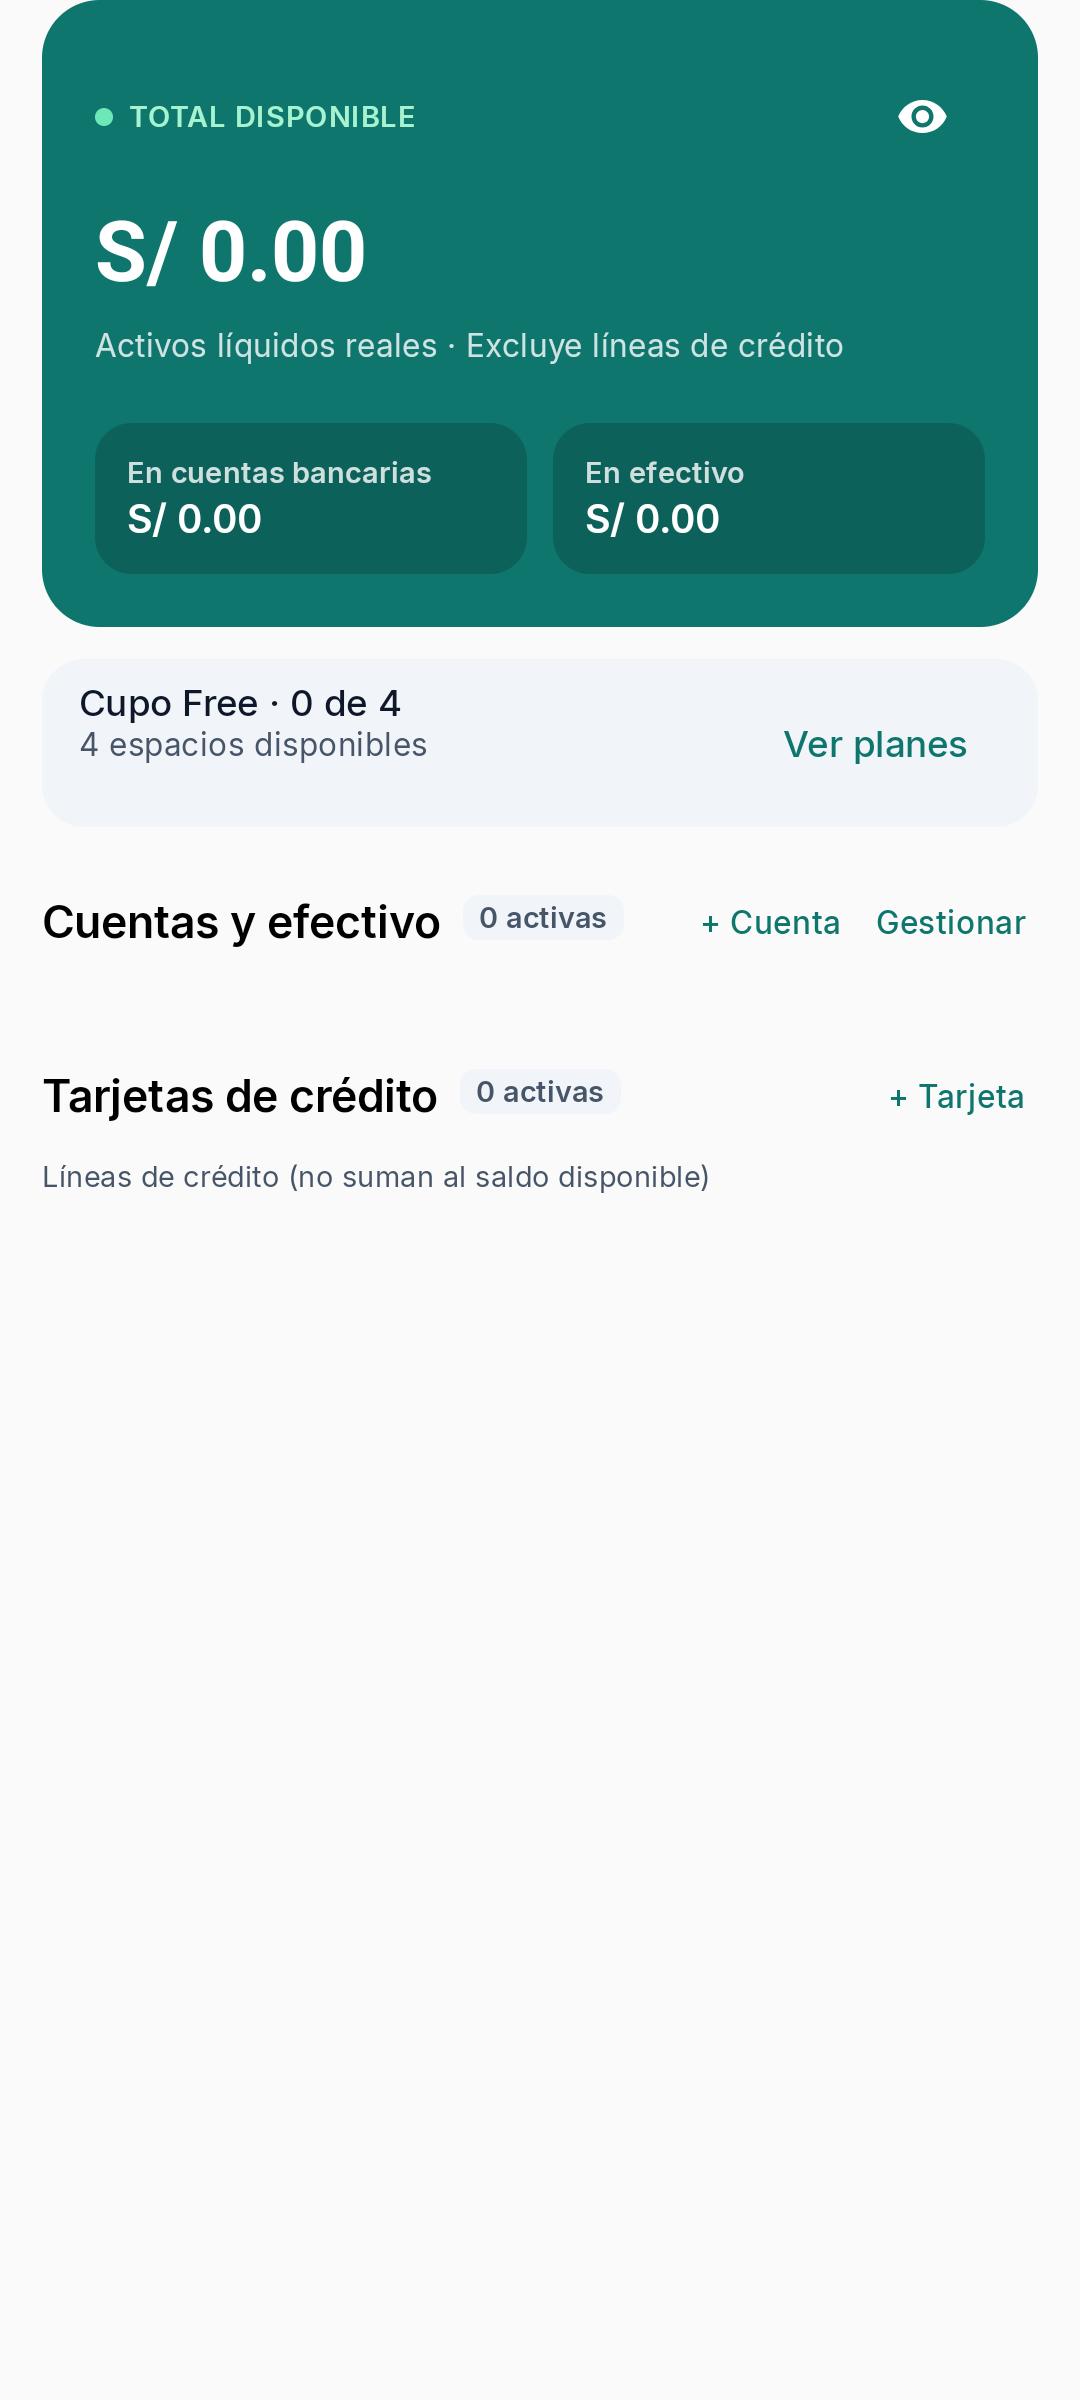
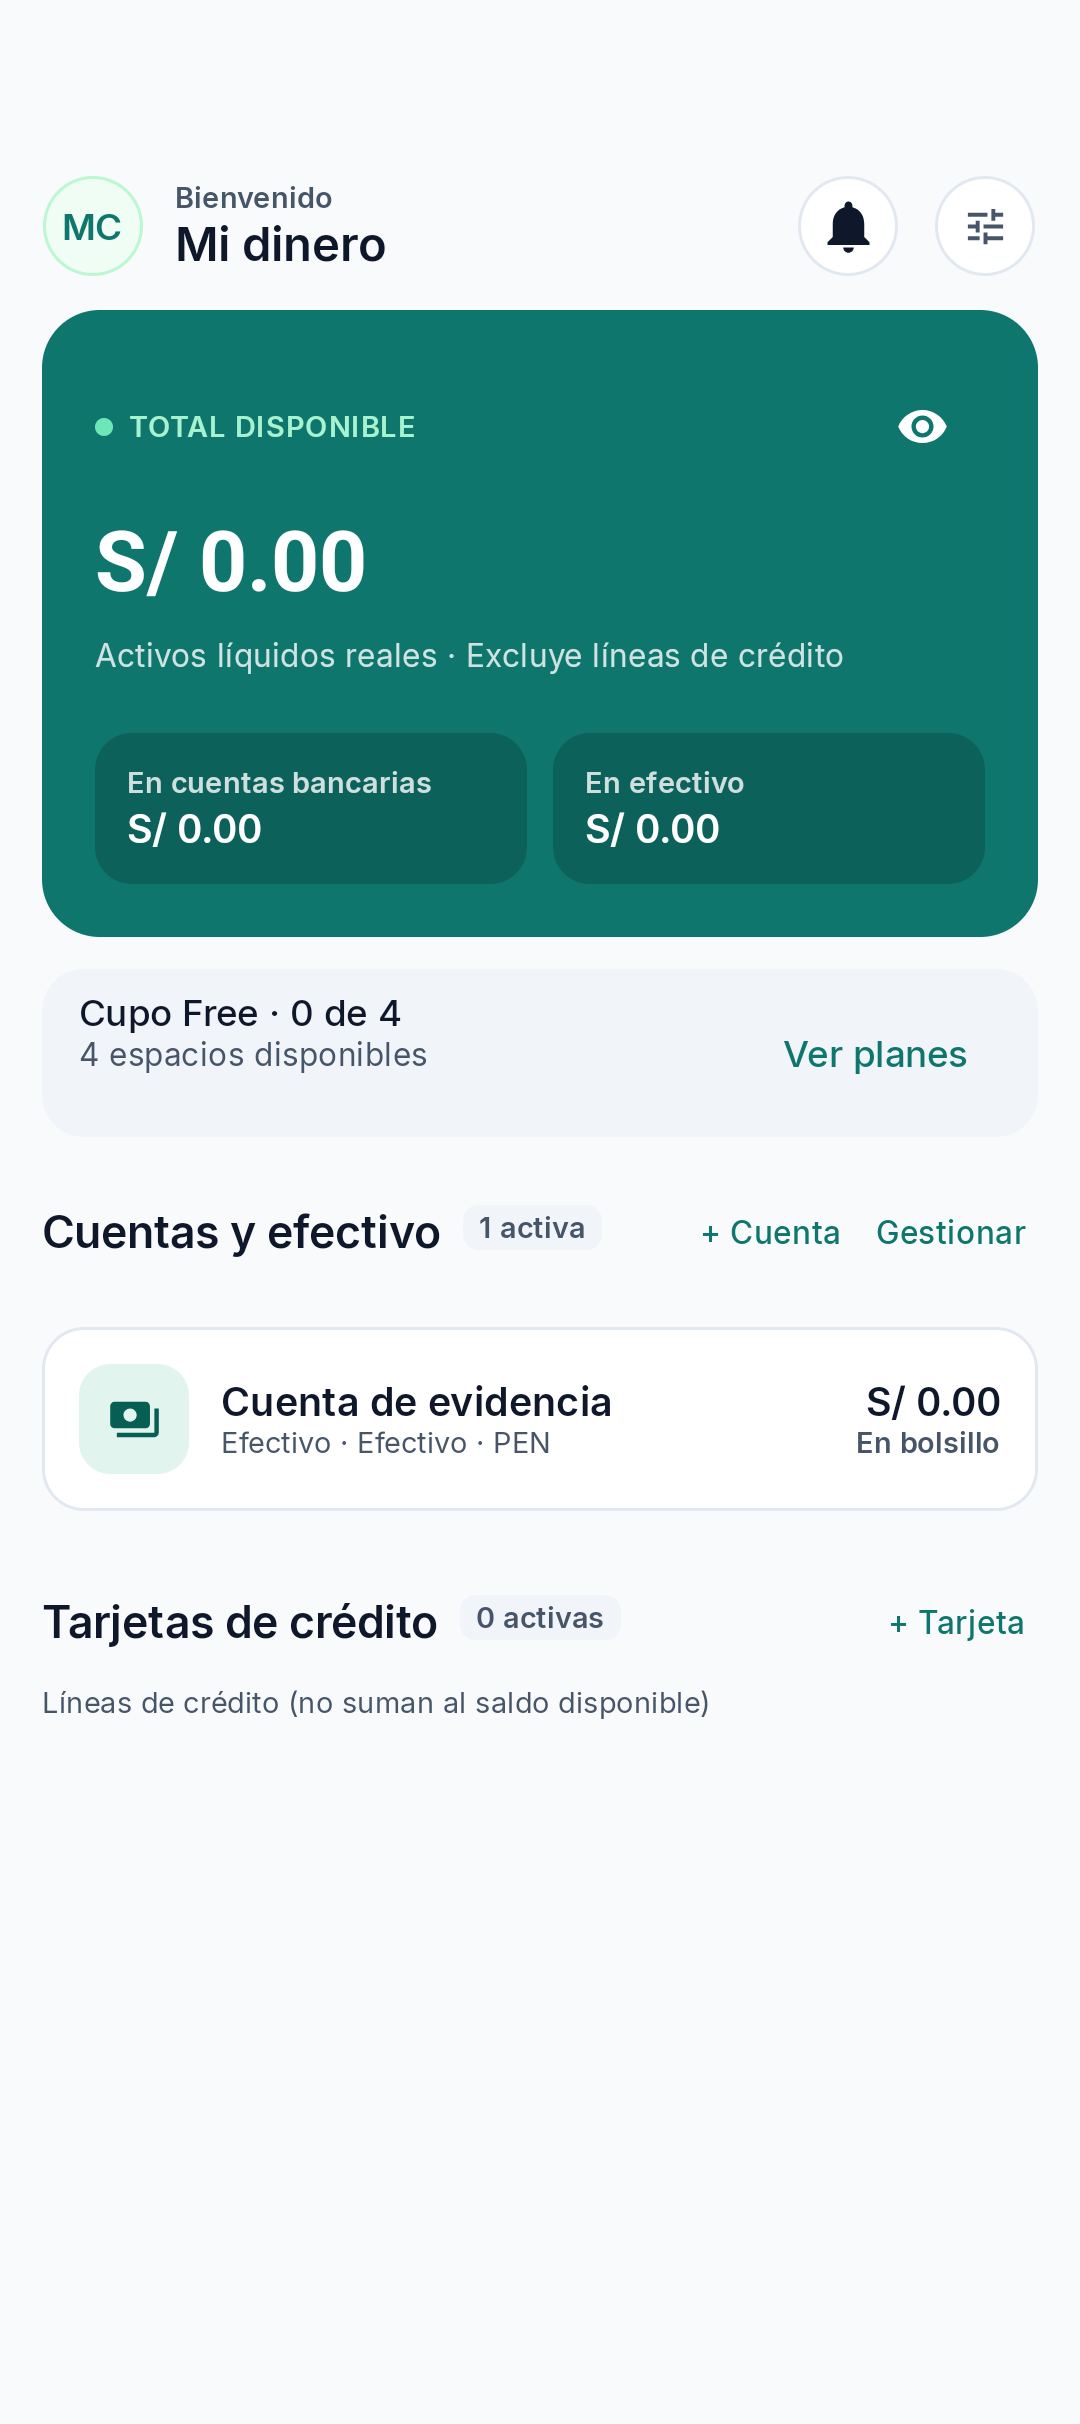
docs(dashboard): replace issue 47 screenshot evidence

diff --git a/docs/ux-ui/evidence/issue-47/README.md b/docs/ux-ui/evidence/issue-47/README.md
@@ -1,18 +1,25 @@
-# Issue #47 — Dashboard financial banner
+# Issue #47 — Banner financiero del Dashboard
 
-## Harness actualizado para las capturas después
+## Evidencia comparable
 
-`DashboardFinancialMessagingTest` monta la pantalla de producción `DashboardScreen` dentro de `KipuTheme`, con una cuenta de efectivo sintética de saldo cero, sin tarjetas y sin deuda. La cuenta mantiene activa la ruta de contenido del Dashboard. El modificador de prueba identifica la raíz de pantalla completa; el harness desplaza el contenido hasta el mismo marcador inferior y captura esa raíz, que incluye el `Scaffold` y su superficie opaca `emeraldColors.background`.
+Las capturas muestran la pantalla productiva completa `DashboardScreen` antes y después de retirar el banner de salud financiera, con el mismo fixture, emulador, viewport, escala de texto, tema y posición de scroll.
 
-Las capturas después se generan por separado en tema claro y oscuro, con los límites del dispositivo/emulador y su escala de texto. El test comprueba que la esquina inferior derecha de la captura coincide con el color de fondo del tema activo y tiene alfa opaca. Los archivos se escriben como `dashboard-after-light.png` y `dashboard-after-dark.png` en el almacenamiento externo de la app y en `Pictures/issue-47`.
-
-## Estado y procedencia de los PNG versionados
-
-| Tema | Antes versionado | Después versionado |
+| Tema | Antes (`main` en `d5667ab`) | Después (implementación en `762f876`) |
 |---|---|---|
-| Claro | ![Captura histórica anterior, tema claro](dashboard-before-light.png) | ![Captura histórica posterior, tema claro](dashboard-after-light.png) |
-| Oscuro | ![Captura histórica anterior, tema oscuro](dashboard-before-dark.png) | ![Captura histórica posterior, tema oscuro](dashboard-after-dark.png) |
+| Claro | ![Antes, tema claro](dashboard-before-light.png) | ![Después, tema claro](dashboard-after-light.png) |
+| Oscuro | ![Antes, tema oscuro](dashboard-before-dark.png) | ![Después, tema oscuro](dashboard-after-dark.png) |
 
-Los cuatro PNG versionados son artefactos históricos de 1080 × 2400 px. El origen de `dashboard-before-*.png` no se puede verificar: no hay metadatos ni registro en el repositorio que identifique su commit, dispositivo, fixture o harness, y la prueba no genera esos nombres. La versión anterior del test sí montaba `ActiveDashboardContent` directamente para sus capturas `dashboard-after-*`, sin la raíz `Scaffold` de producción. Tampoco quedaron registrados el dispositivo, viewport o escala de texto de una ejecución que vincule esas imágenes con los archivos actuales. Las imágenes oscuras muestran el área exterior de las tarjetas clara. Por eso estos PNG no demuestran la pantalla completa de producción ni constituyen una comparación antes/después verificablemente comparable.
+### Entorno y fixture
 
-Este cambio actualiza el harness, pero no ejecuta instrumentación ni reemplaza los PNG. Para publicar una comparación comparable, hay que capturar la revisión anterior a la eliminación del banner y la revisión actual con el mismo harness de raíz completa, fixture, dispositivo/emulador, viewport, escala de texto, tema y posición de scroll. Después se deben copiar las capturas a los cuatro nombres de archivo de la tabla. Hasta entonces, la comparación versionada permanece histórica; las nuevas capturas `dashboard-after-*.png` solo estarán disponibles tras ejecutar la instrumentación.
+- AVD `Pixel_10`, Android 17 / API 37.
+- Resolución: 1080 × 2424; densidad: 420 dpi; escala de fuente: 1.0.
+- Fixture sintético idéntico: cuenta de efectivo “Cuenta de evidencia”, saldo S/0.00, sin tarjetas y sin deuda.
+- Cada imagen mide 1080 × 2424 px. En los dos temas, la comparación muestra la pantalla completa y el cambio visible es la ausencia del banner.
+
+### Procedencia y ejecución
+
+La captura “Antes” se tomó con `main` en `d5667abdf66d85a32fae43d10de8233381e84051`. Para poder usar el mismo ancla de scroll y test de captura, se copió localmente el test instrumentado de la PR y se añadió un `testTag` solo al espaciador del contenido activo en ese worktree temporal; no se modificó código productivo de `main`.
+
+La captura “Después” corresponde a la implementación de la PR en `762f8762a952c3a74306b54d731cf39c693363a7`. En ambos heads, `DashboardFinancialMessagingTest` pasó para tema claro y oscuro en el mismo AVD. El test monta `DashboardScreen` dentro de `KipuTheme`, desplaza al mismo ancla y captura la raíz completa del `Scaffold`.
+
+Los PNG versionados se extrajeron de `Pictures/issue-47` después de la ejecución instrumentada. Android MediaStore puede añadir sufijos `(1)` al repetir una captura; se seleccionó el archivo de la ejecución más reciente para cada tema.
